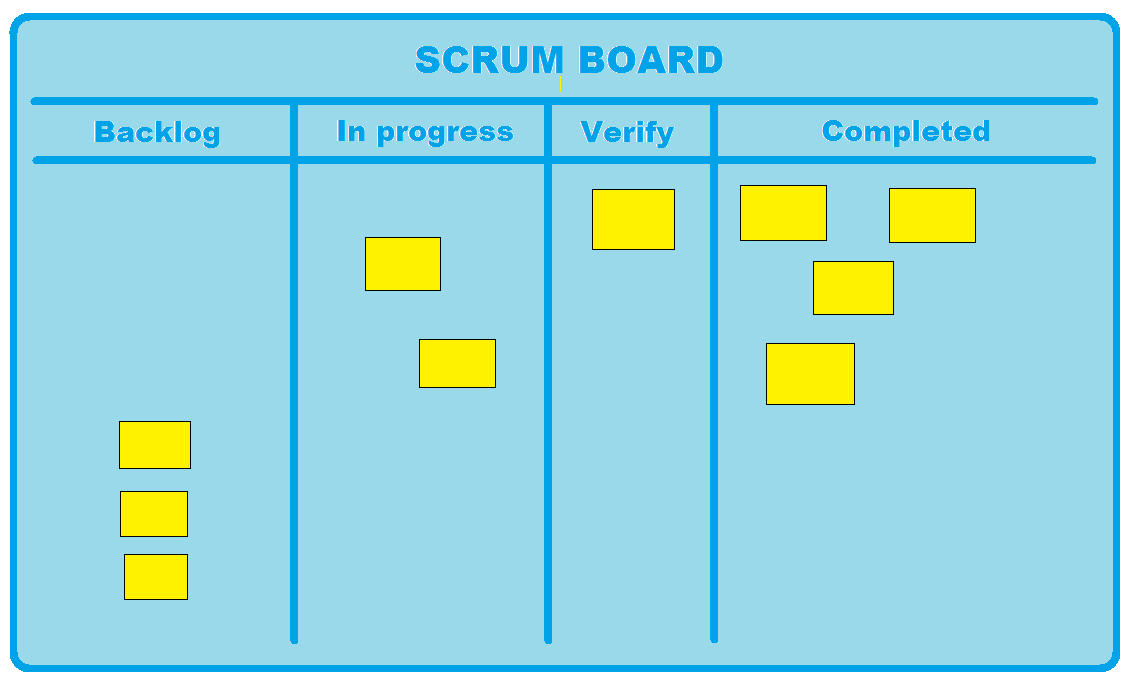
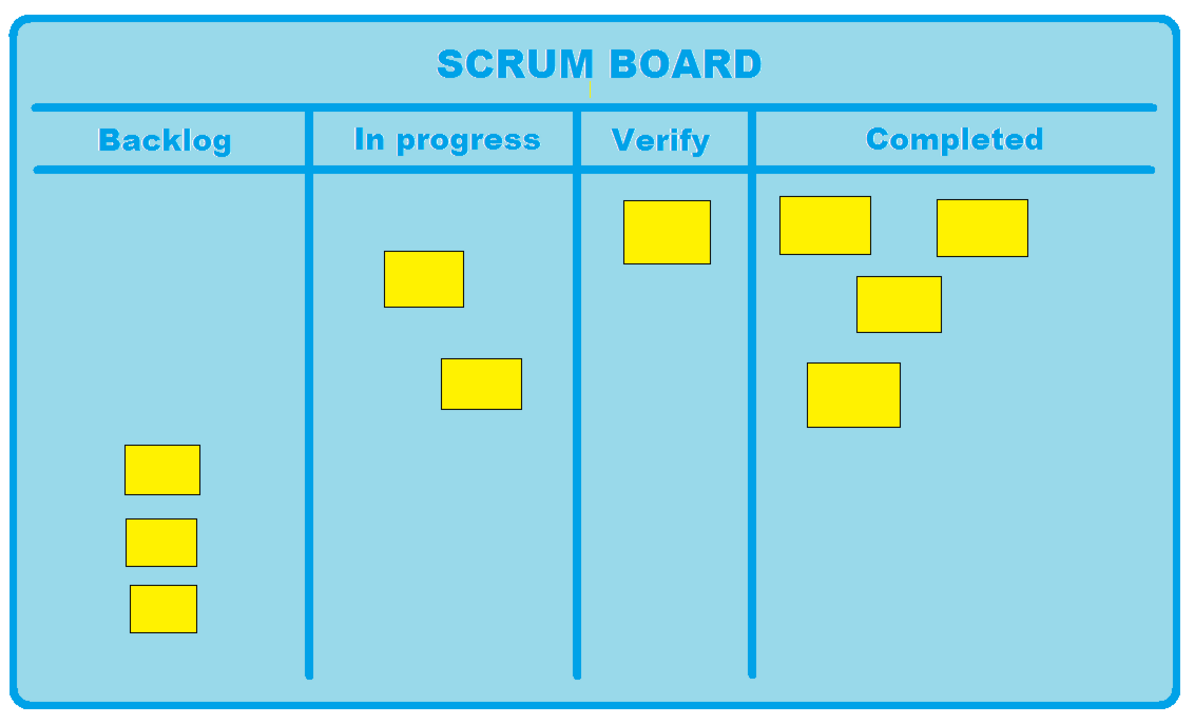
Project Tool Guide 1.1
Added a reference and a section of that reference to talk about

diff --git a/ProjectToolGuide.md b/ProjectToolGuide.md
@@ -7,12 +7,16 @@ Agile Tools
 
 Before getting into the details of how Trello can accommodate for the areas mentioned above, it is recommended to become familiar with the artefacts that are commonly used in the agile methodology.
 
-A task board is a common artefact used in many methods of the agile methodology. They are used by the project team to give an indication on the progress of a task from the current product backlog. This ensures the project team has knowledge of developing the minimal marketing feature in terms of it’s ‘time cycle’ and the project team can make decisions to modify the rate at which a specific tasks is being pulled from the backlog and into completion.
+A task board is a common artefact used in many methods of the agile methodology. They are used by the project team to give an indication on the progress of a task from the current product backlog. This ensures the project team has knowledge of developing the minimal marketing feature in terms of it’s ‘time cycle’ and the project team can make decisions to modify the rate at which a specific task is being pulled from the backlog and into completion. For example, a member is unable to implement a specific feature… The project leader assigns another member to assist him into implementing this feature. A task board is a good example of how a project team can collaborate and provide changes to alter the rate at which the product is being developed.
 
 Collaboration and Communication
 ===============================
 
-*Trello is a collaboration to that organizes your projects into tools* (Trello Inc. n.d.). It does so by organizing your tasks such as it would on a task board. Trello allows collaboration by giving its users the privilege to share their task boards with other users.
+*Trello is a collaboration to that organizes your projects into tools* (Trello Inc. n.d.). It does so by organizing your tasks such as it would on a task board. Trello allows collaboration by giving its users the privilege to share their task boards with other users. Hence, the task boards can be managed by the project team.
+
+**Notifications**: Notifications in Trello are pretty straightforward. By default, users always receive notifications about recent card activity (i.e. new comments, changes, and additions) and any upcoming due dates. Users also get automatically notified if they are mentioned in a comment or checklist item, are added to a card, board, or organization, or are made an admin-level user. When notifications are received, a bell-shaped button in the top right corner of the screen turns bright red. If you do *not* choose to click on the red bell and view your notifications as they pop up on your screen, you will later receive a default email that contains all unread communications. Happily, users can even control the frequency of these email notifications or opt out of them all together.
+
+**Collaborative Features**: Multiple users can work together on a Trello board. It is even possible to bring in outside collaborators at any time simply by emailing them an invitation to join your organization or sending them a link to a board.
 
 Requirements Engineering
 ========================
@@ -24,7 +28,7 @@ Project Planning and Progress Tracking
 
 The task board follow the categorisation of tasks in terms of their progression. The image below shows a standard task board layout. Depending on the project team, the categories can vary for further clarification on the progress of a task. Under each category are a list of tasks that have been selected to be completed during the current sprint. As each task is relatively small and can be done by a single team member, each member is given the opportunity to undertake their desired tasks and relocate these tasks according to what they think which category fits their selected task. Though, it is recommended for the project team to determine whether a task is considered “completed”.
 
-<img src="./media/image1.png" width="346" height="209" />
+<img src="./media/image1.png" width="624" height="378" />
 
 Change Management
 =================
@@ -39,4 +43,8 @@ Enter tool guides about Quality Assurance
 References:
 ===========
 
-Trello Inc. (n.d.) *What is Trello?* Retrieved May 1, 2016, from http://help.trello.com/article/708-what-is-trello
+Trello Inc. (n.d.) *What is Trello?* Retrieved May 1, 2016, from
+<http://help.trello.com/article/708-what-is-trello>
+
+Titterington, J. (2015). *Trello Review.* Retrieved May 9, 2016, from
+<http://aut.ac.nz.libguides.com/APA6th/websites>
